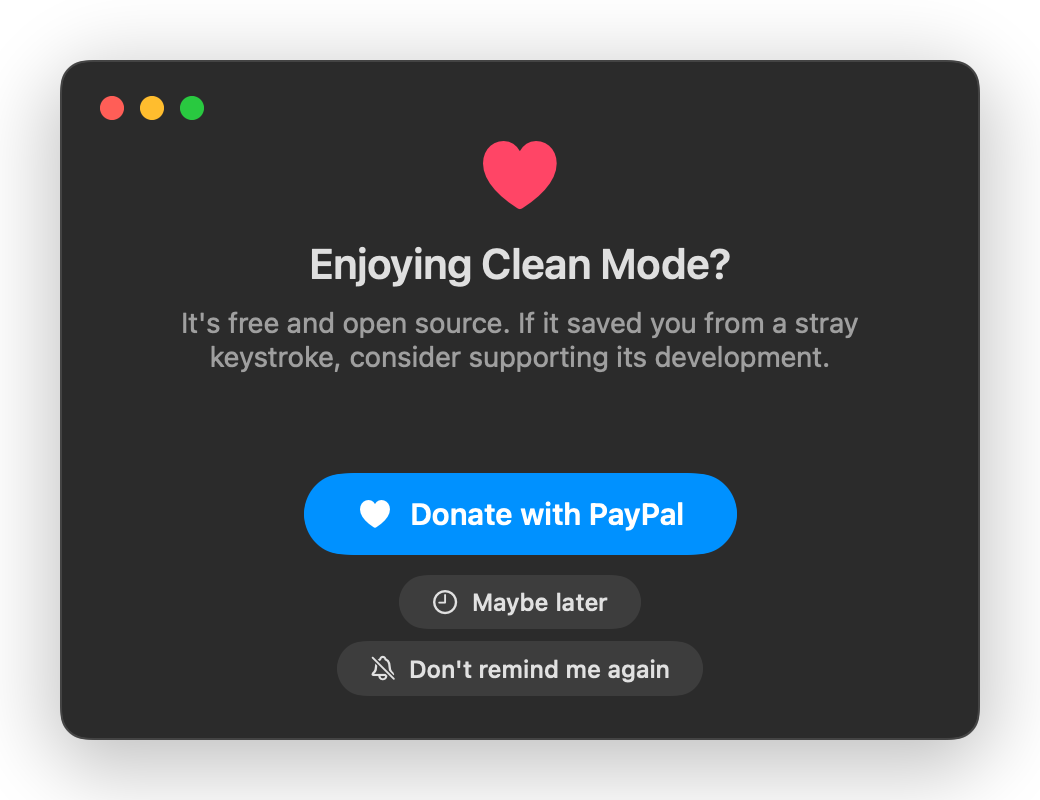
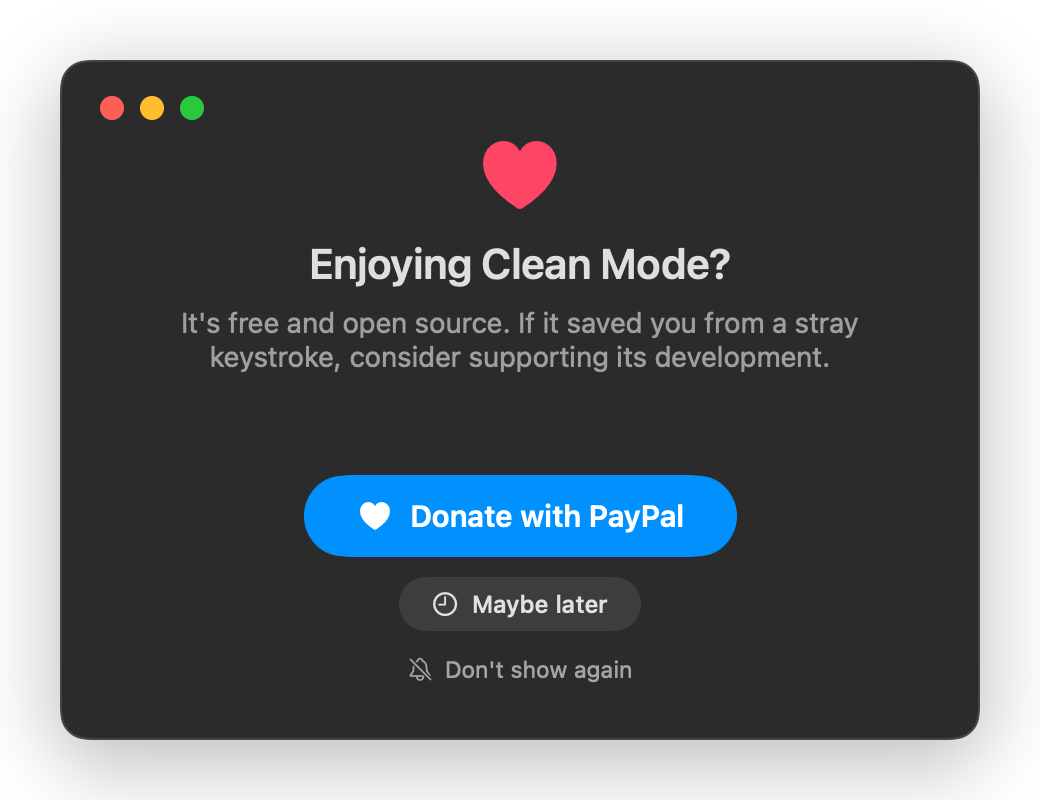
refactor: update donation reminder text for clarity and consistency

diff --git a/Sources/CleanMode/Localization.swift b/Sources/CleanMode/Localization.swift
@@ -74,7 +74,7 @@ enum L10n {
         "don.body": "It's free and open source. If it saved you from a stray keystroke, consider supporting its development.",
         "don.donate": "Donate with PayPal",
         "don.later": "Maybe later",
-        "don.never": "Don't remind me again",
+        "don.never": "Don't show again",
     ]
 
     private static let es: [String: String] = [
@@ -100,7 +100,7 @@ enum L10n {
         "don.body": "Es gratis y de código abierto. Si te evitó alguna tecla accidental, considera apoyar su desarrollo.",
         "don.donate": "Donar con PayPal",
         "don.later": "Ahorita no, joven",
-        "don.never": "No volver a recordármelo",
+        "don.never": "No volver a mostrar",
     ]
 
     private static let zh: [String: String] = [
@@ -126,7 +126,7 @@ enum L10n {
         "don.body": "它免费且开源。如果它帮你避免了误触按键，欢迎支持它的开发。",
         "don.donate": "通过 PayPal 捐赠",
         "don.later": "以后再说",
-        "don.never": "不再提醒",
+        "don.never": "不再显示",
     ]
 
     private static let hi: [String: String] = [
@@ -152,7 +152,7 @@ enum L10n {
         "don.body": "यह मुफ़्त और ओपन सोर्स है। अगर इसने आपको गलती से कोई कुंजी दबने से बचाया, तो इसके विकास में सहयोग करने पर विचार करें।",
         "don.donate": "PayPal से दान करें",
         "don.later": "शायद बाद में",
-        "don.never": "दोबारा याद न दिलाएँ",
+        "don.never": "दोबारा न दिखाएँ",
     ]
 
     private static let ar: [String: String] = [
@@ -179,7 +179,7 @@ enum L10n {
         "don.body": "التطبيق مجاني ومفتوح المصدر. إن جنّبك ضغطة مفتاح بالخطأ، ففكّر في دعم تطويره.",
         "don.donate": "تبرّع عبر PayPal",
         "don.later": "ربما لاحقًا",
-        "don.never": "لا تذكّرني مجددًا",
+        "don.never": "لا تعرض مجددًا",
     ]
 
     private static let fr: [String: String] = [
@@ -205,7 +205,7 @@ enum L10n {
         "don.body": "L'app est gratuite et open source. Si elle vous a évité une frappe accidentelle, pensez à soutenir son développement.",
         "don.donate": "Faire un don avec PayPal",
         "don.later": "Peut-être plus tard",
-        "don.never": "Ne plus me le rappeler",
+        "don.never": "Ne plus afficher",
     ]
 
     private static let pt: [String: String] = [
@@ -231,7 +231,7 @@ enum L10n {
         "don.body": "É gratuito e de código aberto. Se ele evitou uma tecla acidental, considere apoiar o desenvolvimento.",
         "don.donate": "Doar com PayPal",
         "don.later": "Talvez depois",
-        "don.never": "Não lembrar novamente",
+        "don.never": "Não mostrar novamente",
     ]
 
     private static let ru: [String: String] = [
@@ -257,7 +257,7 @@ enum L10n {
         "don.body": "Приложение бесплатное и с открытым кодом. Если оно уберегло вас от случайного нажатия клавиши, поддержите его разработку.",
         "don.donate": "Пожертвовать через PayPal",
         "don.later": "Может быть, позже",
-        "don.never": "Больше не напоминать",
+        "don.never": "Больше не показывать",
     ]
 
     private static let bn: [String: String] = [
@@ -283,7 +283,7 @@ enum L10n {
         "don.body": "এটি বিনামূল্যে ও ওপেন সোর্স। ভুলবশত কী চাপা থেকে বাঁচিয়ে থাকলে, এর উন্নয়নে সহায়তা করার কথা ভাবুন।",
         "don.donate": "PayPal-এ অনুদান দিন",
         "don.later": "পরে হয়তো",
-        "don.never": "আর মনে করাবেন না",
+        "don.never": "আর দেখাবেন না",
     ]
 
     private static let ja: [String: String] = [
@@ -335,7 +335,7 @@ enum L10n {
         "don.body": "Es ist kostenlos und Open Source. Wenn es dir einen versehentlichen Tastendruck erspart hat, unterstütze gern die Entwicklung.",
         "don.donate": "Mit PayPal spenden",
         "don.later": "Vielleicht später",
-        "don.never": "Nicht mehr erinnern",
+        "don.never": "Nicht mehr anzeigen",
     ]
 
     private static let it: [String: String] = [
@@ -361,7 +361,7 @@ enum L10n {
         "don.body": "È gratuita e open source. Se ti ha evitato un tasto premuto per sbaglio, considera di sostenerne lo sviluppo.",
         "don.donate": "Dona con PayPal",
         "don.later": "Forse più tardi",
-        "don.never": "Non ricordarmelo più",
+        "don.never": "Non mostrare più",
     ]
 
     private static let ko: [String: String] = [
@@ -387,6 +387,6 @@ enum L10n {
         "don.body": "무료 오픈소스예요. 실수로 키를 누르는 일을 막아 드렸다면 개발을 후원해 주세요.",
         "don.donate": "PayPal로 후원하기",
         "don.later": "나중에",
-        "don.never": "다시 알리지 않기",
+        "don.never": "다시 표시하지 않기",
     ]
 }

diff --git a/Sources/CleanMode/DonationView.swift b/Sources/CleanMode/DonationView.swift
@@ -42,11 +42,12 @@ struct DonationView: View {
                 .buttonStyle(PillButtonStyle(kind: .primary))
                 .keyboardShortcut(.defaultAction)
 
-                // Las dos salidas: la misma cápsula, en versión secundaria (más pequeña y sin color). Esc = más tarde.
+                // Jerarquía de tres niveles: donar (principal) > ahorita no (secundario, con relleno suave) > no recordar
+                // (terciario: sin relleno y más discreto, pero legible y con la misma zona de clic). Esc = más tarde.
                 VStack(spacing: 6) {
-                    secondaryButton(L10n.t("don.later"), systemImage: "clock") { onChoice(.later) }
+                    pillButton(L10n.t("don.later"), systemImage: "clock", kind: .secondary) { onChoice(.later) }
                         .keyboardShortcut(.cancelAction)
-                    secondaryButton(L10n.t("don.never"), systemImage: "bell.slash") { onChoice(.never) }
+                    pillButton(L10n.t("don.never"), systemImage: "bell.slash", kind: .tertiary) { onChoice(.never) }
                 }
             }
             .padding(.bottom, 22)
@@ -55,30 +56,31 @@ struct DonationView: View {
         .environment(\.layoutDirection, L10n.isRTL ? .rightToLeft : .leftToRight)
     }
 
-    /// Botón secundario: la misma cápsula, versión pequeña y sin color.
-    private func secondaryButton(_ title: String, systemImage: String, action: @escaping () -> Void) -> some View {
+    /// Botón de salida: la misma cápsula, en versión secundaria (relleno suave) o terciaria (sin relleno, más discreta).
+    private func pillButton(_ title: String, systemImage: String, kind: PillButtonStyle.Kind,
+                            action: @escaping () -> Void) -> some View {
         Button(action: action) {
             HStack(spacing: 6) {
                 Image(systemName: systemImage)
                 Text(title).lineLimit(1)
             }
-            .font(.system(size: 12, weight: .medium))
+            .font(.system(size: kind == .tertiary ? 11.5 : 12, weight: kind == .tertiary ? .regular : .medium))
         }
-        .buttonStyle(PillButtonStyle(kind: .secondary))
+        .buttonStyle(PillButtonStyle(kind: kind))
     }
 }
 
 /// Cápsula totalmente redondeada que se ajusta a su contenido. Un único estilo para todos los botones de la ventana,
 /// dibujado a mano para que se vea igual en cualquier versión de macOS (y en las capturas).
 struct PillButtonStyle: ButtonStyle {
-    enum Kind { case primary, secondary }
+    enum Kind { case primary, secondary, tertiary }
 
     let kind: Kind
     @Environment(\.isEnabled) private var isEnabled
 
     func makeBody(configuration: Configuration) -> some View {
         configuration.label
-            .foregroundStyle(kind == .primary ? Color.white : Color.primary)
+            .foregroundStyle(foreground)
             .padding(.horizontal, kind == .primary ? 26 : 16)
             .padding(.vertical, kind == .primary ? 11 : 6)
             .background(Capsule().fill(fill(pressed: configuration.isPressed)))
@@ -86,10 +88,19 @@ struct PillButtonStyle: ButtonStyle {
             .opacity(isEnabled ? 1 : 0.5)
     }
 
+    private var foreground: Color {
+        switch kind {
+        case .primary: return Color.white
+        case .secondary: return Color.primary
+        case .tertiary: return Color.primary.opacity(0.68)   // discreto, pero con buen contraste
+        }
+    }
+
     private func fill(pressed: Bool) -> Color {
         switch kind {
         case .primary: return Color.accentColor.opacity(pressed ? 0.78 : 1)
         case .secondary: return Color.primary.opacity(pressed ? 0.20 : 0.10)
+        case .tertiary: return Color.primary.opacity(pressed ? 0.10 : 0)   // sin relleno; al presionar se marca
         }
     }
 }

diff --git a/Sources/CleanMode/DonationReminder.swift b/Sources/CleanMode/DonationReminder.swift
@@ -30,7 +30,7 @@ enum DonationReminder {
     /// Tras donar: no vuelve a preguntar en un buen rato.
     static func donated() { schedule(after: Config.donationReminderEvery * 5) }
 
-    /// «No volver a recordármelo».
+    /// «No volver a mostrar».
     static func optOut() { defaults.set(true, forKey: optOutKey) }
 
     private static func schedule(after n: Int) {

diff --git a/CHANGELOG.md b/CHANGELOG.md
@@ -8,7 +8,7 @@ All notable changes to this project are documented here. The format follows [Kee
 - Lock screen measurements are now fixed and identical on every screen (the ones calibrated for 1280×720: UI scale 1.44) instead of scaling with the screen height. The hold-to-exit button keeps its own size.
 - The broom icon is vertically aligned with the title text.
 - The description is now 18 pt and the auto-close countdown 16 pt (slightly transparent).
-- The donation reminder window is redesigned: all three buttons are now the same fully rounded pill (hand-drawn, so it looks identical on every macOS version) that fits its content, stacked and centered. "Maybe later" and "Don't remind me again" are real buttons instead of small gray text. Return donates and Esc postpones. In Spanish, "Maybe later" reads "Ahorita no, joven".
+- The donation reminder window is redesigned: all three buttons are now the same fully rounded pill (hand-drawn, so it looks identical on every macOS version) that fits its content, stacked and centered. "Maybe later" and "Don't show again" are real buttons instead of small gray text. Return donates and Esc postpones. "Don't show again" is the lowest-emphasis button (no fill, slightly smaller) so it gets fewer accidental clicks than "Maybe later", while staying readable. In Spanish, "Maybe later" reads "Ahorita no, joven".
 - In the onboarding and donation windows the zoom and minimize buttons stay visible but disabled; only the close button does anything.
 
 ## [1.1.1]
@@ -37,4 +37,4 @@ All notable changes to this project are documented here. The format follows [Kee
 - 13 languages (en, es, zh, hi, ar, fr, pt, ru, bn, ja, de, it, ko) chosen from the system language, with right-to-left support.
 - App icon, build and packaging scripts.
 - Universal binary (Apple Silicon + Intel), ad hoc signed.
-- Optional donation reminder (PayPal) after every 10 cleanings ended by the user. Dismissible, with a "Don't remind me again" option; configurable with `donationReminderEvery`.
+- Optional donation reminder (PayPal) after every 10 cleanings ended by the user. Dismissible, with a "Don't show again" option; configurable with `donationReminderEvery`.

diff --git a/README.md b/README.md
@@ -187,7 +187,7 @@ The repository URL, download link and donation link are in `landing/src/config.j
 
 Clean Mode is free and open source. If it's useful to you, you can [donate with PayPal](https://www.paypal.me/dannegm). It's entirely optional, and thank you!
 
-**About the reminder.** After every 10 cleanings that *you* end (hold button or ⌘Q ×3), the app shows one small window asking if you'd like to donate. It never appears while the lock is active, never after an automatic close, and it has a **"Don't remind me again"** button. Closing the window just postpones it. The only thing stored is a counter on your Mac (the app makes no network requests; the PayPal page opens in your browser only if you click Donate).
+**About the reminder.** After every 10 cleanings that *you* end (hold button or ⌘Q ×3), the app shows one small window asking if you'd like to donate. It never appears while the lock is active, never after an automatic close, and it has a **"Don't show again"** button. Closing the window just postpones it. The only thing stored is a counter on your Mac (the app makes no network requests; the PayPal page opens in your browser only if you click Donate).
 
 ```bash
 # Change how often it appears (0 turns it off completely)

diff --git a/.github/release-notice.md b/.github/release-notice.md
@@ -16,6 +16,6 @@
 - **Website**: [cleanmode.hckr.mx](https://cleanmode.hckr.mx).
 - **Privacy**: it never logs or sends what you type and makes no network requests. The source is in this repository.
 - The **translations** were not reviewed by native speakers. Corrections are welcome!
-- **Donations**: Clean Mode is free. If it's useful, you can [donate with PayPal](https://www.paypal.me/dannegm). A small, dismissible reminder appears after every 10 cleanings you end yourself (it has a "Don't remind me again" button and can be turned off with `defaults write im.dnn.cleanmode donationReminderEvery -int 0`).
+- **Donations**: Clean Mode is free. If it's useful, you can [donate with PayPal](https://www.paypal.me/dannegm). A small, dismissible reminder appears after every 10 cleanings you end yourself (it has a "Don't show again" button and can be turned off with `defaults write im.dnn.cleanmode donationReminderEvery -int 0`).
 
 See [CHANGELOG.md](https://github.com/dannegm/cleanmode/blob/main/CHANGELOG.md) for what changed.
